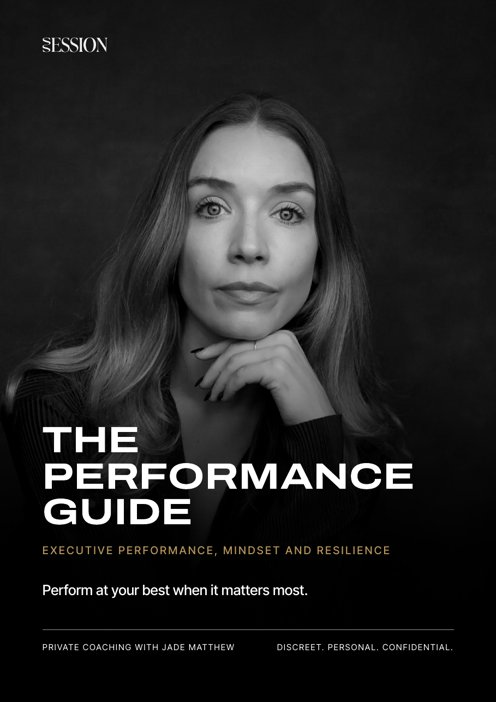
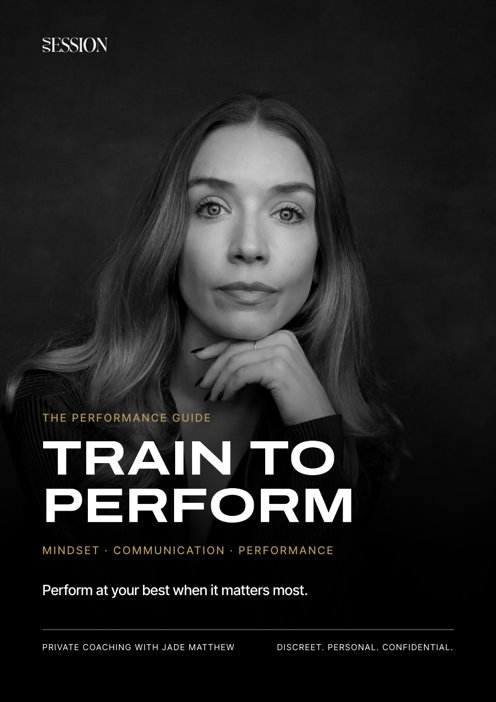
feat: twelve page Performance Guide on the site with the Train to perform cover
Claude-Session: https://claude.ai/code/session_01W8tLhr5XhseFNrtxcWAJJU

Changed region(s): [[0.0907, 0.5684, 0.8468, 0.7479], [0.0907, 0.7778, 0.7863, 0.8077]]

diff --git a/private-coaching.html b/private-coaching.html
@@ -78,9 +78,9 @@
 
 <section><div class="wrap"><div class="bigq rv"><blockquote>Less time worrying and more time doing. I kicked some unhealthy habits, started prioritising friends and family again, built confidence at work and achieved a promotion.</blockquote><cite>Jack &middot; Head of Music</cite></div></div></section>
 <section id="guide"><div class="wrap two">
-  <div class="rv"><a href="/free-tools/performance-under-pressure-guide/"><img src="/assets/content/performance-guide-cover.jpg" alt="Cover of The Performance Guide" loading="lazy" style="display:block;width:100%;max-width:360px;height:auto;box-shadow:0 18px 40px rgba(10,26,58,.18)"></a></div>
+  <div class="rv"><a href="/free-tools/performance-under-pressure-guide/"><img src="/assets/content/performance-guide-cover.jpg" alt="Cover of The Performance Guide: Train to perform" loading="lazy" style="display:block;width:100%;max-width:360px;height:auto;box-shadow:0 18px 40px rgba(10,26,58,.18)"></a></div>
   <div class="prose rv"><p class="eb">Free guide</p><h2>The Performance Guide</h2>
-  <p class="lede">Ten pages on how to perform at your best when the pressure is on: the Performance State Method, breathwork, visualisation and EEG brain training, who I work with, and how private coaching works, including what it costs.</p>
+  <p class="lede">Twelve pages on how to perform at your best when the pressure is on, whether that’s in sport, music, film, business or your own life: the pain points clients bring, the Performance State Method, the outcomes we work towards, EEG brain training on the premium programme, and how private coaching works, including what it costs.</p>
   
   <p style="margin-top:26px"><a class="btn" href="/free-tools/performance-under-pressure-guide/">Get the free guide</a></p>
   <p class="mailto" style="margin-top:18px">Questions first? <a class="tl" href="enquire.html" data-chat>Start a live chat</a>. I read every chat and join when I can.</p></div>

diff --git a/free-tools/performance-under-pressure-guide/index.html b/free-tools/performance-under-pressure-guide/index.html
@@ -43,12 +43,12 @@
 <main>
 <section class="phero"><div class="wrap toolwrap">
   <p class="eb"><a class="tl" href="/free-tools/">Free tools</a></p><h1>The Performance Guide</h1>
-  <p class="lede">Ten pages on how to perform at your best when the pressure is on: the Performance State Method, breathwork, visualisation and EEG brain training, who I work with, and how private coaching works, including what it costs. Tick what applies to you and I'll send it straight over.</p>
-  <div class="toolfacts"><span>10 pages</span><span>Free</span><span>Download straight away</span></div>
+  <p class="lede">Twelve pages on how to perform at your best when the pressure is on, whether that’s in sport, music, film, business or your own life: the pain points clients bring, the Performance State Method, the outcomes we work towards, EEG brain training on the premium programme, and how private coaching works, including what it costs. Tick what applies to you and I'll send it straight over.</p>
+  <div class="toolfacts"><span>12 pages</span><span>Free</span><span>Download straight away</span></div>
 </div></section>
 <section style="padding-top:0"><div class="wrap toolwrap">
   <div class="guidewrap">
-    <img class="guidecover" src="/assets/content/performance-guide-cover.jpg" alt="Cover of The Performance Guide">
+    <img class="guidecover" src="/assets/content/performance-guide-cover.jpg" alt="Cover of The Performance Guide: Train to perform">
     <div class="tool-frame" data-form="pressure_guide" data-title="Get The Performance Guide" data-done="after"></div>
   </div>
   <div class="afterbox" id="after" hidden>

diff --git a/coaching/index.html b/coaching/index.html
@@ -177,9 +177,9 @@
 <section class="tint" id="guide"><div class="wrap">
   <p class="eb">The coaching guide</p>
   <h2>Not ready to talk yet? Read the guide first.</h2>
-  <p class="sp">Ten pages on how to perform at your best when the pressure is on: the Performance State Method, breathwork, visualisation and EEG brain training, who I work with, and how private coaching works, including what it costs. Tick what applies to you and it’s yours straight away.</p>
+  <p class="sp">Twelve pages on how to perform at your best when the pressure is on, whether that’s in sport, music, film, business or your own life: the pain points clients bring, the Performance State Method, the outcomes we work towards, EEG brain training on the premium programme, and how private coaching works, including what it costs. Tick what applies to you and it’s yours straight away.</p>
   <div class="guidewrap">
-    <img class="guidecover" src="/assets/content/performance-guide-cover.jpg" alt="Cover of The Performance Guide">
+    <img class="guidecover" src="/assets/content/performance-guide-cover.jpg" alt="Cover of The Performance Guide: Train to perform">
     <div>
       <div class="tool-frame" data-form="pressure_guide" data-title="Get the coaching guide" data-done="lpafter"></div>
       <div class="afterbox" id="lpafter" hidden>
